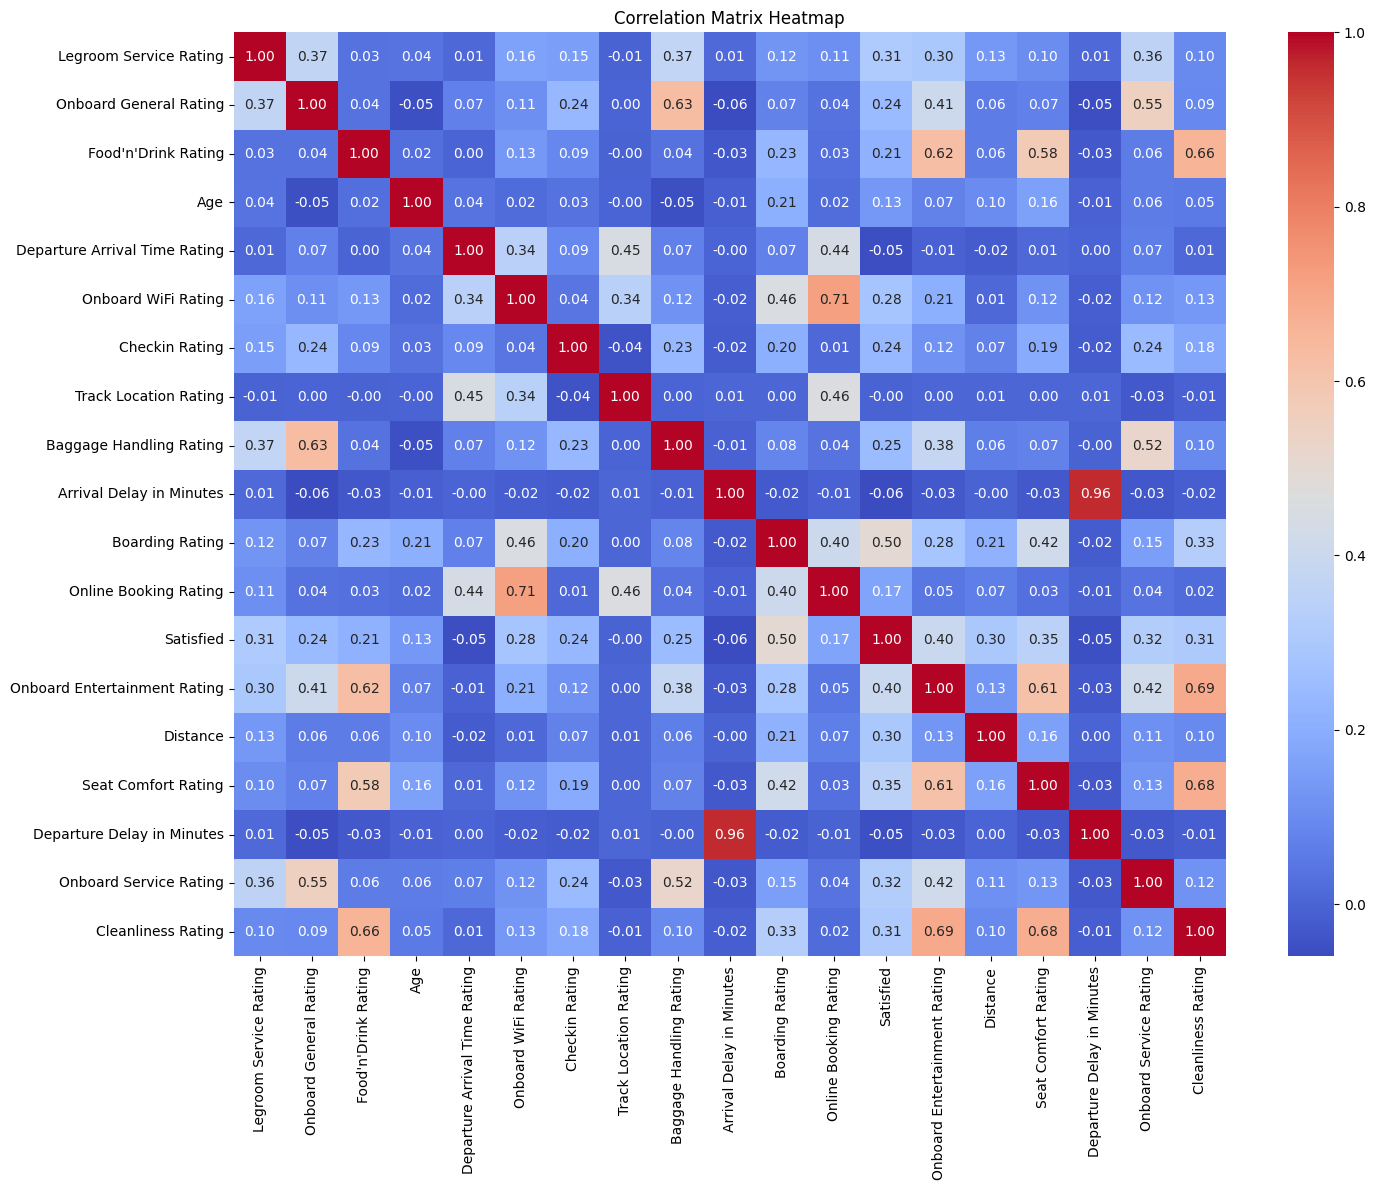
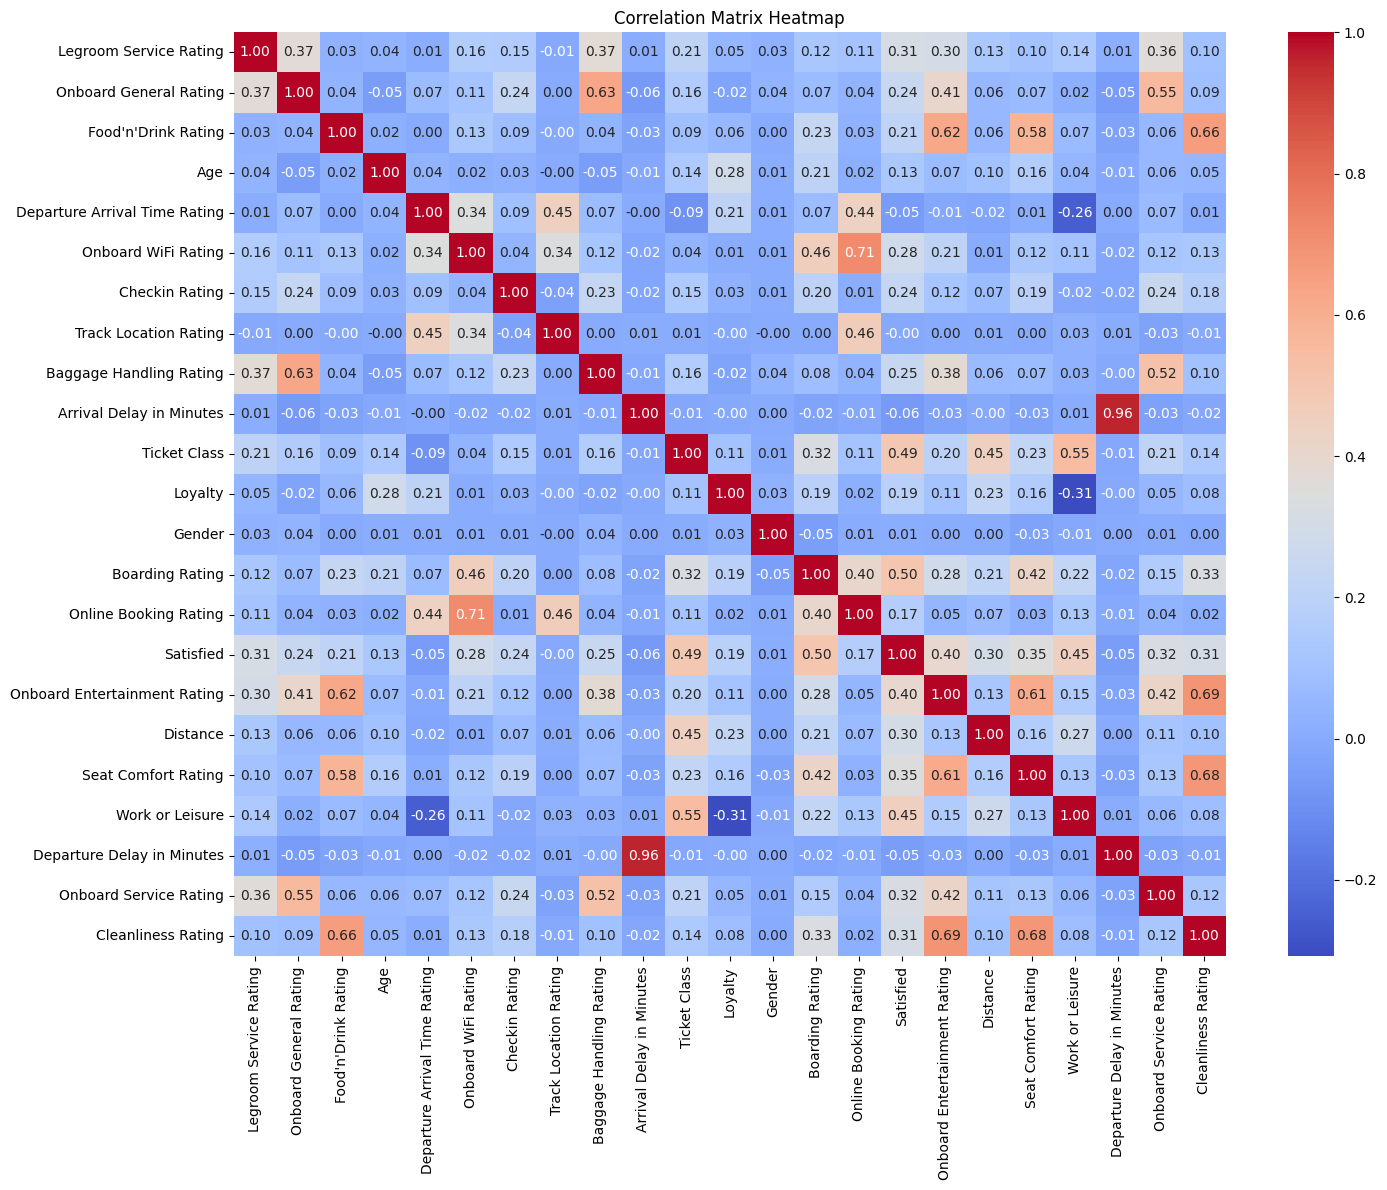
Second check (encoding process)

diff --git a/README.md b/README.md
@@ -38,9 +38,7 @@ The project is divided into 7 main steps, which are described in the following s
 
 ### 2) EDA for feature understanding
 As a first step, we had to distinguish categorical and numerical features, since they are treated differently in the EDA. In particular, we found out that there are 5 categorical features and 18 numerical features ("Date and Time"  and "Ticket ID" were removed in the previous step).
-- 2.1) **Outliers detection**: outliers are relevant to build our model since they can negatively affect the performance, so as a first step, we  plotted boxplots in order to have a general idea on what is going on. The results are reported in the following plot: <br>  
-![BOXPLOT](images/Boxplot.png) <br>  
-As we can see, there are many outliers in the 'Arrival Delay in Minutes' and 'Departure Delay in Minutes' features. Even if almost than 75% of the values are less than 10, there are some values that are much higher than the others. In particular, the maximum value for 'Arrival Delay in Minutes' is 1584, while the maximum value for 'Departure Delay in Minutes' is 1592. Another feature that present some outliers is 'Distance', but in this case the outliers are not so relevant, since the maximum value is 4983, which is not so far from the 75% percentile (1359). The other features have a range between 1 and 5, hence the outliers are not so relevant for these features.  
+
 - 2.1) **Descriptive statistics**: this statistics summary, unig *'.describe().T*, only considers numerical features and gives a high-level idea to identify whether the data has any outliers, data entry error, distribution of data such as the data is normally distributed or left/right skewed. The results showed what we already knew from the boxplots, that is the presence of outliers in the 'Arrival Delay in Minutes' and 'Departure Delay in Minutes' features. In addittion, we could see that the average is really low for both the features (15 and 14 minutes). Considering the others numerical features, we can observe a balanced distribution, with the average value that is often not so far from the median value.  
 After that, we focused on the categorical features, trying to understand how they are distributed and the most frequent value. The names of the columns are pretty self-explanatory:  
   - Ticket class: The class in which the customers chose to travel. **'Premium'** is the most common value, indicating a potential preference.  
@@ -54,18 +52,20 @@ The plots show that customer ratings for onboard services generally skewed high,
 After that, we plotted barplots for each categorical feature, in order to visualize the results previously stated: <br>  
 ![GETTING STARTED](images/Plots_categorical.png)  
 <br>   
-For categorical variables, we decided to compute correlation with the target variable Cramér's V, which is based on a nominal variation of Pearson’s Chi-Square Test. It is an association measure for nominal random variables, giving a value between 0 and 1 (0 means no association, 1 is full association).  
-
-- 2.3) **Correlation Analysis**: evaluates the relationship between categorical, numerical variables and the target variable, to understand which features were more impactful and correlated with the target variable. The results are reported in the following correlation heatmap: <br>  
-![HEATMAP](images/Correlation_Matrix.png) <br>  
-The result on the features 'Age' and 'Gender' si not really surprising, since it is herdly a factor that influences customer satisfaction. On the other hand, the features 'Arrival Delay in Minutes' and 'Departure Delay in Minutes' are commonly considered more relevant and hence a correlation that is so low was not really expected. However, considering the results of the EDA, we can observe that the average value for both the features is really low (15 and 14 minutes), and the distribution is skewed to the left, with a lot of values that are close to 0 and a few values that are much higher than the others. This could explain the low correlation with the target variable: since most of the values are close to 0 the feature had no impact on the customer satisfaction in the most of the cases and hence keeping those features would have been too much resource consuming for the model, without any relevant improvement in the performance.
+- 2.3) **Outliers detection**: outliers are relevant to build our model since they can negatively affect the performance, so as a first step, we  plotted boxplots in order to have a general idea on what is going on. The results are reported in the following plot: <br>  
+![BOXPLOT](images/Boxplot.png) <br>  
+As we can see, there are many outliers in the 'Arrival Delay in Minutes' and 'Departure Delay in Minutes' features. Even if almost than 75% of the values are less than 10, there are some values that are much higher than the others. In particular, the maximum value for 'Arrival Delay in Minutes' is 1584, while the maximum value for 'Departure Delay in Minutes' is 1592. Another feature that present some outliers is 'Distance', but in this case the outliers are not so relevant, since the maximum value is 4983, which is not so far from the 75% percentile (1359). The other features have a range between 1 and 5, hence the outliers are not so relevant for these features. 
+- 2.4) **Encoding Categorical Variables**: we converted categorical variables into a format suitable for modeling, so that it was possible to plot a correlation matrix and understand the relationship between the features and the target variable. Furthermore, there are only 5 categorical features and they are quite easy to encode. Indeed, as seen before, 4 of them are binary variables ('Gender', 'Satisfied', 'Loyalty', 'Work or Leisure'), while the last one has 3 possible values ('Ticket Class'). As a consequence, we decided to use one-hot encoding for the first 4 features and ordinal encoding for the last one. One-hot encoding is used for these variables because it transforms each category into a binary value (0 or 1), creating a new binary column for each category. Label encoding is used for 'Ticket Class' because it represents an ordinal variable with a clear order or hierarchy among the categories ('Economy', 'Smart', 'Premium'). Label encoding assigns a unique numerical value to each category, preserving the order of the classes.
+- 2.5) **Correlation Analysis**: evaluates the relationship between categorical, numerical variables and the target variable, to understand which features were more impactful and correlated with the target variable. The results are reported in the following correlation heatmap: <br>  
+![HEATMAP](images/Correlation_target.png) <br>  
+The result on the features 'Age' and 'Gender' is not really surprising, since they are hardly a factor that influences customer satisfaction (maybe they could have been also removed with 'Ticket ID' and 'Date and Time'). On the other hand, the features 'Arrival Delay in Minutes' and 'Departure Delay in Minutes' are commonly considered more relevant and hence a correlation that is so low was not really expected. However, considering the results of the EDA, we can observe that the average value for both the features is really low (15 and 14 minutes), and the distribution is skewed to the left, with a lot of values that are close to 0 and a few values that are much higher than the others. This could explain the low correlation with the target variable: since most of the values are close to 0 the feature had no impact on the customer satisfaction in the most of the cases and hence keeping those features would have been too much resource consuming for the model, without any relevant improvement in the performance.
 
 ### 3) Feature selection:
 In this section, the only thing we had to decide was the treshold to select features to use to train the model. We simply tried to find the best value empirically, conducting an experiment that is explained in the **Experimental Design** section. The optimal result was obtained with a treshold of 0.15. As a consequence, the features dropped were: 'Gender', 'Arrival Delay in Minutes', 'Departure Delay in Minutes' and 'Age'.  
 
 ### 4) Praparing data for modeling
 - 4.1) Encoding Categorical Variables: we converted categorical variables into a format suitable for modeling. 
-- 4.2) Removing Outliers: we used the two-steps approach to find and remove the outliers. The reasoning behind the choice of this approach is explained in the **Experimental Design** section.
+- 4.2) Removing Outliers: we used the two-steps approach to find and remove the outliers for the feature 'Distance'. The reasoning behind the choice of this approach is explained in the **Experimental Design** section.
 - 4.3) Data Splitting: we generated a training set containing 75% of the observations and a test set containing the remaining 25%. The training set is used to train the model, while the test set is used to evaluate the model's performance on unseen data.
 - 4.4) Distribution of the target variable in the different sets: In order to build a model that is able to perform well on both training and test set, the ratio between the two classes of the target variable must be the same in both sets. The results shows it means that the splitting process kept the ratio constant. As a consequence, we do not have to deal with stratification (splitting the dataset mantaining a balanced ratio between the two classes). 
 - 4.5) Feature Scaling (Fit and Transform): Feature scaling, involving the application of fit_transform on the training set and transform on the test set, is performed to standardize the data. This approach ensures that the scaling parameters are learned from the training set, preventing any information leakage from the test set and maintaining the integrity of the model evaluation process. 
